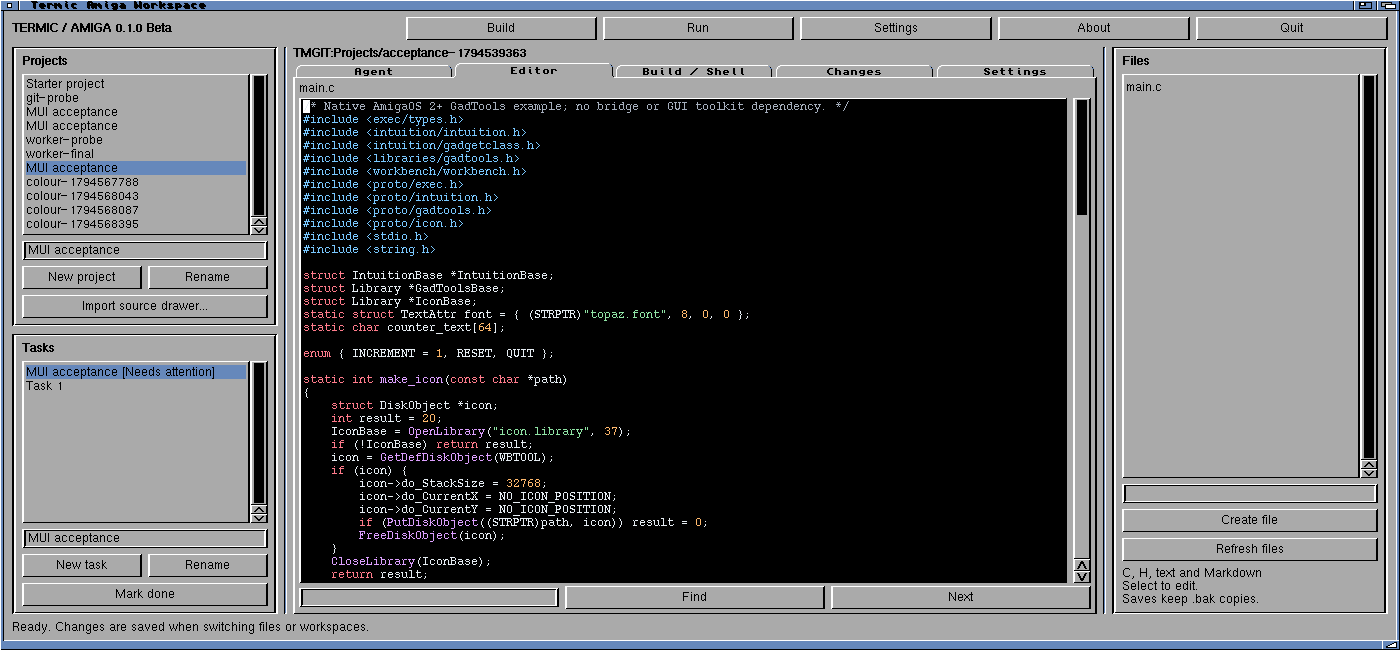
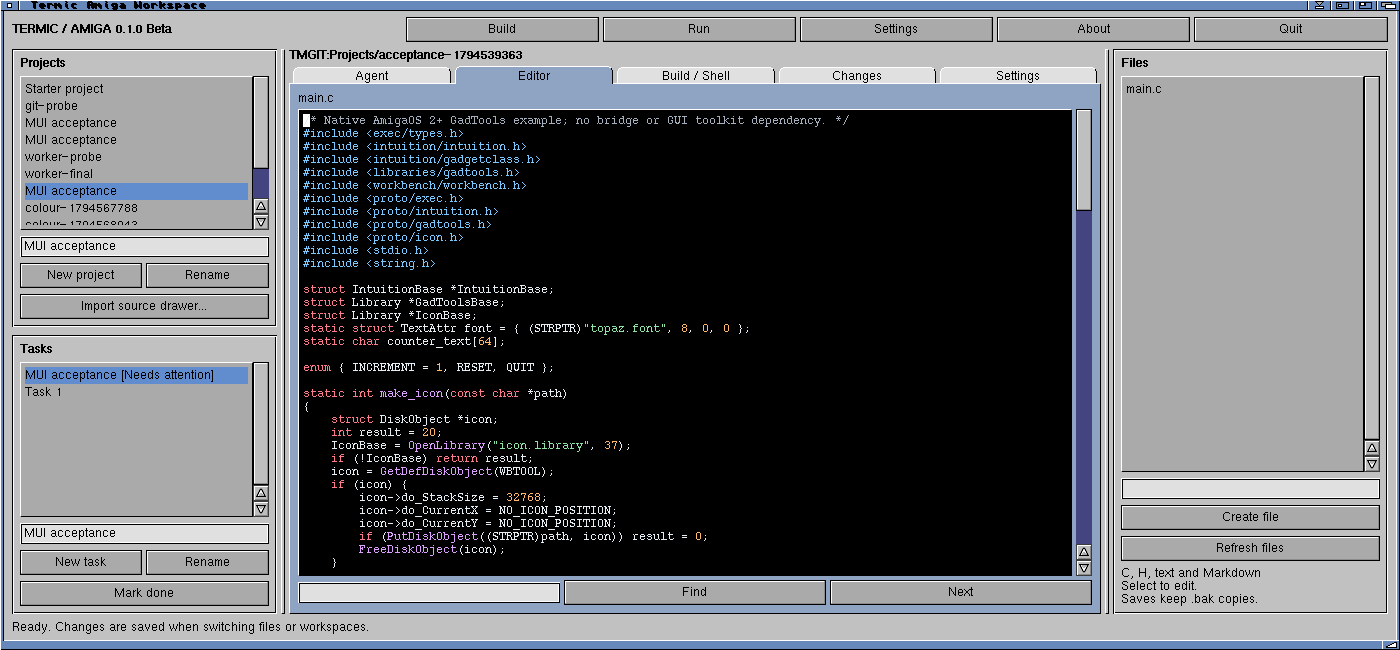
Support MUI 5 tabs and verify native UI after upgrade

diff --git a/amiga/native/gui.c b/amiga/native/gui.c
@@ -1069,12 +1069,21 @@ static Object *build_menus(void)
 }
 static int build_ui(void)
 {
-    Object *body, *left, *right, *center;
+    Object *body, *left, *right, *center, *tabtitles = NULL;
     app = ApplicationObject, MUIA_Application_Title, "Termic", MUIA_Application_Base, "TERMIC",
     MUIA_Application_Version, version_tag + 1, MUIA_Application_SingleTask, TRUE,
     MUIA_Application_Description, "Native Amiga development workspace", End;
     if (!app)
         return 0;
+    if (MUIMasterBase->lib_Version >= 21)
+    {
+        /* MUI 5's Title class gives each tab its own font-aware text object. */
+        tabtitles =
+            MUI_NewObject("Title.mui", Child, label(tabs[0]), Child, label(tabs[1]), Child,
+                          label(tabs[2]), Child, label(tabs[3]), Child, label(tabs[4]), TAG_DONE);
+        if (!tabtitles)
+            return 0;
+    }
     left = VGroup, MUIA_Group_Spacing, 8, MUIA_Weight, 22, Child, VGroup, GroupFrame, Child,
     label("\33bProjects"), InnerSpacing(6, 6), MUIA_Group_Spacing, 6, Child, list(&projects), Child,
     projectname = entry(120), Child, HGroup, Child, button("New project", NEWPROJECT), Child,
@@ -1084,12 +1093,14 @@ static int build_ui(void)
     button("New task", NEWTASK), Child, button("Rename", RENAMETASK), End, Child,
     button("Mark done", MARKDONE), End, End;
     center = VGroup, MUIA_Weight, 65, Child, heading = label("Termic workspace"), Child,
-    pages = RegisterGroup(tabs), MUIA_Font, bodyfont ? (ULONG)bodyfont : MUIV_Font_Normal, Child,
-    VGroup, Child, editor(&transcript, 1), Child, label("\33bTask instructions"), Child,
-    editor(&prompt, 0), Child, HGroup, Child, button("Save task", SAVETASK), Child,
-    button("Start agent", AGENT), Child, button("Cancel", CANCEL), Child,
-    button("New conversation", NEWSESSION), End, End, Child, VGroup, Child,
-    filename = label("main.c"), Child, editor(&source, 0), Child, HGroup, Child,
+    pages = MUI_NewObject(tabtitles ? MUIC_Group : MUIC_Register,
+    tabtitles ? TAG_IGNORE : MUIA_Register_Titles, tabs, MUIA_Group_PageMode, TRUE,
+    MUIA_Font, bodyfont ? (ULONG)bodyfont : MUIV_Font_Normal,
+    tabtitles ? Child : TAG_IGNORE, tabtitles, Child, VGroup, Child,
+    editor(&transcript, 1), Child, label("\33bTask instructions"), Child, editor(&prompt, 0), Child,
+    HGroup, Child, button("Save task", SAVETASK), Child, button("Start agent", AGENT), Child,
+    button("Cancel", CANCEL), Child, button("New conversation", NEWSESSION), End, End, Child,
+    VGroup, Child, filename = label("main.c"), Child, editor(&source, 0), Child, HGroup, Child,
     findtext = entry(120), Child, button("Find", FIND), Child, button("Next", FINDNEXT), End, End,
     Child, VGroup, Child, editor(&output, 1), Child,
     label("AmigaDOS command (runs in this workspace)"), Child, command = entry(1024), Child, HGroup,
@@ -1120,12 +1131,11 @@ static int build_ui(void)
     6, MUIA_Weight, 23, Child, list(&files), Child, newname = entry(180), Child,
     button("Create file", NEWFILE), Child, button("Refresh files", REFRESH), Child,
     label("C, H, text and Markdown\nSelect to edit.\nSaves keep .bak copies."), End;
-    body = VGroup, MUIA_Font, bodyfont ? (ULONG)bodyfont : MUIV_Font_Normal, MUIA_Group_Spacing, 7,
-    InnerSpacing(8, 6), Child, HGroup, Child, label("\33bTERMIC / AMIGA " TERMIC_VERSION), Child,
-    HVSpace, Child, button("Build", BUILD), Child, button("Run", RUN), Child,
-    button("Settings", SETTINGS), Child, button("About", ABOUT), Child, button("Quit", QUIT), End,
-    Child, HGroup, Child, left, Child, BalanceObject, End, Child, center, Child, BalanceObject, End,
-    Child, right, End, Child, status = label("Ready"), End;
+    body = VGroup, MUIA_Font, bodyfont ? (ULONG)bodyfont : MUIV_Font_Normal, MUIA_Group_Spacing, 7, InnerSpacing(8, 6), Child, HGroup, Child,
+    label("\33bTERMIC / AMIGA " TERMIC_VERSION), Child, HVSpace, Child, button("Build", BUILD),
+    Child, button("Run", RUN), Child, button("Settings", SETTINGS), Child, button("About", ABOUT),
+    Child, button("Quit", QUIT), End, Child, HGroup, Child, left, Child, BalanceObject, End, Child,
+    center, Child, BalanceObject, End, Child, right, End, Child, status = label("Ready"), End;
     win = WindowObject, MUIA_Window_Title, "Termic Amiga Workspace", MUIA_Window_ID,
     MAKE_ID('T', 'R', 'M', 'C'), MUIA_Window_Width, 1400, MUIA_Window_Height, 650,
     MUIA_Window_Menustrip, build_menus(), WindowContents, body, End;

diff --git a/scripts/amiga/accept_style.py b/scripts/amiga/accept_style.py
@@ -48,7 +48,7 @@ async def main(args):
             async def shell(script):
                 result = await call(
                     "amiga_run_script",
-                    {"script": "FailAt 10\n" + script, "timeout": 15},
+                    {"script": "FailAt 10\nStack 262144\n" + script, "timeout": 15},
                 )
                 assert "[STILL RUNNING]" not in result, result
                 assert "[ERROR]" not in result, result
@@ -91,8 +91,17 @@ async def main(args):
                 url = "http://127.0.0.1:55010/api/screenshot?" + urllib.parse.urlencode(
                     {"window": title}
                 )
-                with urllib.request.urlopen(url, timeout=60) as response:
-                    data = json.load(response)
+                # A screenshot transfer can outlast its HTTP request on the
+                # physical bridge. Retry the read without repeating UI actions.
+                for attempt in range(2):
+                    try:
+                        with urllib.request.urlopen(url, timeout=60) as response:
+                            data = json.load(response)
+                        break
+                    except TimeoutError:
+                        if attempt:
+                            raise
+                        await asyncio.sleep(5)
                 subprocess.run(
                     [
                         "sips",
@@ -170,23 +179,25 @@ async def main(args):
                 started = True
                 await asyncio.sleep(2)
                 await key("0x02", ("0x67",))
-                menu = await shell(fixture + "/InspectUI menus")
-                assert re.findall(r"^MENU (.+)$", menu, re.M) == [
-                    "Project",
-                    "Edit",
-                    "Workspace",
-                    "View",
-                    "Settings",
-                    "Help",
-                ], menu
-                assert "ITEM Copy enabled=0" in menu, menu
-                assert "ITEM Save enabled=1 key=S" in menu, menu
+                if not args.mui_custom_menus:
+                    menu = await shell(fixture + "/InspectUI menus")
+                    assert re.findall(r"^MENU (.+)$", menu, re.M) == [
+                        "Project",
+                        "Edit",
+                        "Workspace",
+                        "View",
+                        "Settings",
+                        "Help",
+                    ], menu
+                    assert "ITEM Copy enabled=0" in menu, menu
+                    assert "ITEM Save enabled=1 key=S" in menu, menu
                 # Select the newly typed prefix and use standard native menu keys.
                 await type_text("ab")
                 await key("0x4f", ("0x60",))  # Shift-left
                 await key("0x4f", ("0x60",))
-                menu = await shell(fixture + "/InspectUI menus")
-                assert "ITEM Copy enabled=1 key=C" in menu, menu
+                if not args.mui_custom_menus:
+                    menu = await shell(fixture + "/InspectUI menus")
+                    assert "ITEM Copy enabled=1 key=C" in menu, menu
                 await key(mapping["c"], ("0x67",))
                 await shell(
                     fixture + "/InspectUI save-clip " + fixture + "/clipboard.fixture"
@@ -290,7 +301,8 @@ async def main(args):
                     json.dumps(
                         {
                             "fixture": fixture,
-                            "menus": True,
+                            "menu_shortcuts": True,
+                            "intuition_menu_structure": not args.mui_custom_menus,
                             "clipboard_ftxt": True,
                             "preferences_use_cancel_save": True,
                             "guide": True,
@@ -329,4 +341,9 @@ if __name__ == "__main__":
     parser.add_argument("--gui", type=Path, required=True)
     parser.add_argument("--probe", type=Path, required=True)
     parser.add_argument("--install", default="SD032G:Dev/Termic")
+    parser.add_argument(
+        "--mui-custom-menus",
+        action="store_true",
+        help="MUI 5: verify menu shortcuts; skip unavailable Intuition MenuStrip inspection",
+    )
     asyncio.run(main(parser.parse_args()))

diff --git a/scripts/amiga/accept_colours.py b/scripts/amiga/accept_colours.py
@@ -51,7 +51,7 @@ async def main():
                     + fixture
                     + "/main.c\nCopy Termic:Template/task.txt "
                     + fixture
-                    + "/task.txt\nProtect Termic:TermicColour +e\nRun >NIL: <NIL: Termic:TermicColour --workspace "
+                    + "/task.txt\nProtect Termic:TermicColour +e\nStack 262144\nRun >NIL: <NIL: Termic:TermicColour --workspace "
                     + fixture,
                     "timeout": 15,
                 },
@@ -86,7 +86,10 @@ async def main():
             await key("0x59")
             await call(
                 "amiga_run_script",
-                {"script": "Run >NIL: <NIL: Termic:TermicColour", "timeout": 10},
+                {
+                    "script": "Stack 262144\nRun >NIL: <NIL: Termic:TermicColour",
+                    "timeout": 10,
+                },
             )
             await asyncio.sleep(2)
             await key("0x51")

diff --git a/scripts/amiga/accept_mui.py b/scripts/amiga/accept_mui.py
@@ -188,7 +188,7 @@ async def main(args):
                         + fixture
                         + '/task.txt\nEcho "MUI acceptance" >'
                         + fixture
-                        + "/name.txt\nRun >NIL: <NIL: "
+                        + "/name.txt\nStack 262144\nRun >NIL: <NIL: "
                         + args.binary
                         + " --workspace "
                         + fixture,
@@ -367,7 +367,10 @@ async def main(args):
                 raise RuntimeError("Quit did not close the MUI window")
             await call(
                 "amiga_run_script",
-                {"script": "Run >NIL: <NIL: " + args.binary, "timeout": 15},
+                {
+                    "script": "Stack 262144\nRun >NIL: <NIL: " + args.binary,
+                    "timeout": 15,
+                },
             )
             await asyncio.sleep(2)
             text = await call(

diff --git a/scripts/amiga/accept_about.py b/scripts/amiga/accept_about.py
@@ -101,7 +101,10 @@ async def main():
             await key("0x59")
             await call(
                 "amiga_run_script",
-                {"script": "Run >NIL: <NIL: Termic:TermicAbout", "timeout": 10},
+                {
+                    "script": "Stack 262144\nRun >NIL: <NIL: Termic:TermicAbout",
+                    "timeout": 10,
+                },
             )
             await asyncio.sleep(2)
             await key("0x51")  # Focus the embedded editor first

diff --git a/docs/verification.md b/docs/verification.md
@@ -1,7 +1,8 @@
 # Verification and limitations
 
 The Amiga application was exercised on an A4000TX with a TF4060/68060,
-Workbench 3.2.3, MUI 3.8, TextEditor.mcc 15.56, AmiSSL 5.27 and ZZ9000 RTG.
+Workbench 3.2.3, MUI 3.8 and subsequently MUI 5.0 (muimaster 21.227),
+TextEditor.mcc 15.56, AmiSSL 5.27 and ZZ9000 RTG.
 The screenshots show synthetic fixtures on that machine.
 
 Verified through the written hardware suites:
@@ -21,6 +22,20 @@ Verified through the written hardware suites:
   persists the restored effective values. Tests use synthetic models and no key.
 - Help launches the 18-node AmigaGuide manual in MultiView; Shift-Help opens About.
   Keyboard link navigation reached the Installation and dependencies chapter.
+
+After the MUI 5 upgrade, the same file/clipboard, preferences, About and Help
+checks passed with `accept_style.py --mui-custom-menus`. MUI 5 did not expose
+these menus through the Intuition MenuStrip inspected by the helper, so that
+mode checks actual shortcut effects and explicitly records the menu-structure
+inspection as untested. All GUI test launches use a 256 KiB stack.
+
+The final production editor, preferences and About screenshots were inspected,
+and the installed GUI, worker and guide matched host CRC32 checks. A subsequent
+production Help launch stalled at MultiView’s “Loading…” window; its screenshot
+request and a follow-up bridge request timed out. Production Help navigation
+therefore still needs a repeat check, despite the fixture Help pass. The reboot
+also exposed a separate MUI warning for Poseidon’s PoPo helper (8192-byte stack;
+MUI recommends 32000); that system compatibility issue remains unresolved.
 
 The `accept_style.py` suite uses a fresh temporary installation and restores the
 previous clipboard and production app afterwards. Native menus were inspected

diff --git a/docs/amiga-interface.md b/docs/amiga-interface.md
@@ -38,6 +38,11 @@ a contents node, linked chapters and alphabetical index, and does not execute
 commands from links. Shift-Help and Project > About show version and credits.
 The local installation-kit builder includes the guide automatically.
 
+MUI 5 uses its Title class for workspace tabs, with an individual Helvetica
+text object for each label. The older Register implementation clipped labels
+on the tested MUI 5 installation; changing font inheritance did not fix it.
+MUI 3.8 keeps its Register tabs.
+
 MUI owns menu creation, layout and disposal on 68k AmigaOS. The OS4 interface
 pointers in the current GadTools example are not used by this AmigaOS 3.x build.
 Menu strings have static lifetimes. MUI notifications dispatch existing actions.
@@ -62,6 +67,8 @@ The workspace is intended for the A4000TX's RTG desktop, not a 640x200 layout.
 
 References consulted:
 
+- [MUI Title class](https://github.com/amiga-mui/muidev/wiki/MUI_Title)
+- [Hello MUI visual reference](https://keasigmadelta.com/blog/hello-mui-how-to-write-your-first-amigaos-app-using-mui/)
 - [Workbench manual](https://wiki.amigaos.net/wiki/AmigaOS_Manual:_Workbench)
 - [Workbench Fonts](https://wiki.amigaos.net/wiki/AmigaOS_Manual:_Workbench_Fonts)
 - [Menus](https://wiki.amigaos.net/wiki/UI_Style_Guide_Menus)

diff --git a/README.md b/README.md
@@ -32,6 +32,7 @@ preferences and clipboard behavior and its remaining limitations.
 ## Requirements and installation
 
 AmigaOS 3.2, 68020 or newer, Fast RAM, MUI 3.8+ and TextEditor.mcc 15.56.
+The application is also tested with MUI 5.0 and uses its native Title tabs.
 Development uses VBCC and NDK3.2. Native Git requires long filenames and was
 verified with AmiSSL 5.27. Cloud access additionally needs a compatible TCP/IP
 stack, CA certificates, an accurate clock and your own OpenAI API key.
